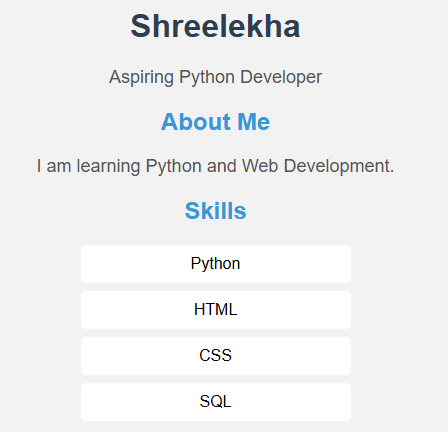
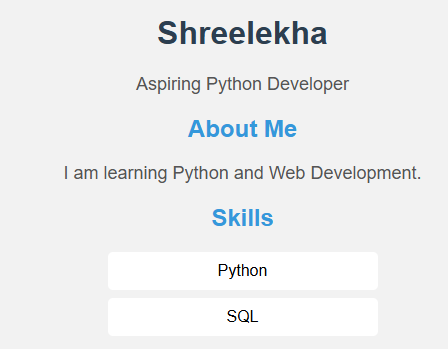
Upload Portfolio Website

diff --git a/index.html b/index.html
@@ -15,7 +15,7 @@
     <h2>Skills</h2>
     <ul>
         <li>Python</li>
-        <li>HTML</li>
+        <li>SQL</li>
         
     </ul>
 
